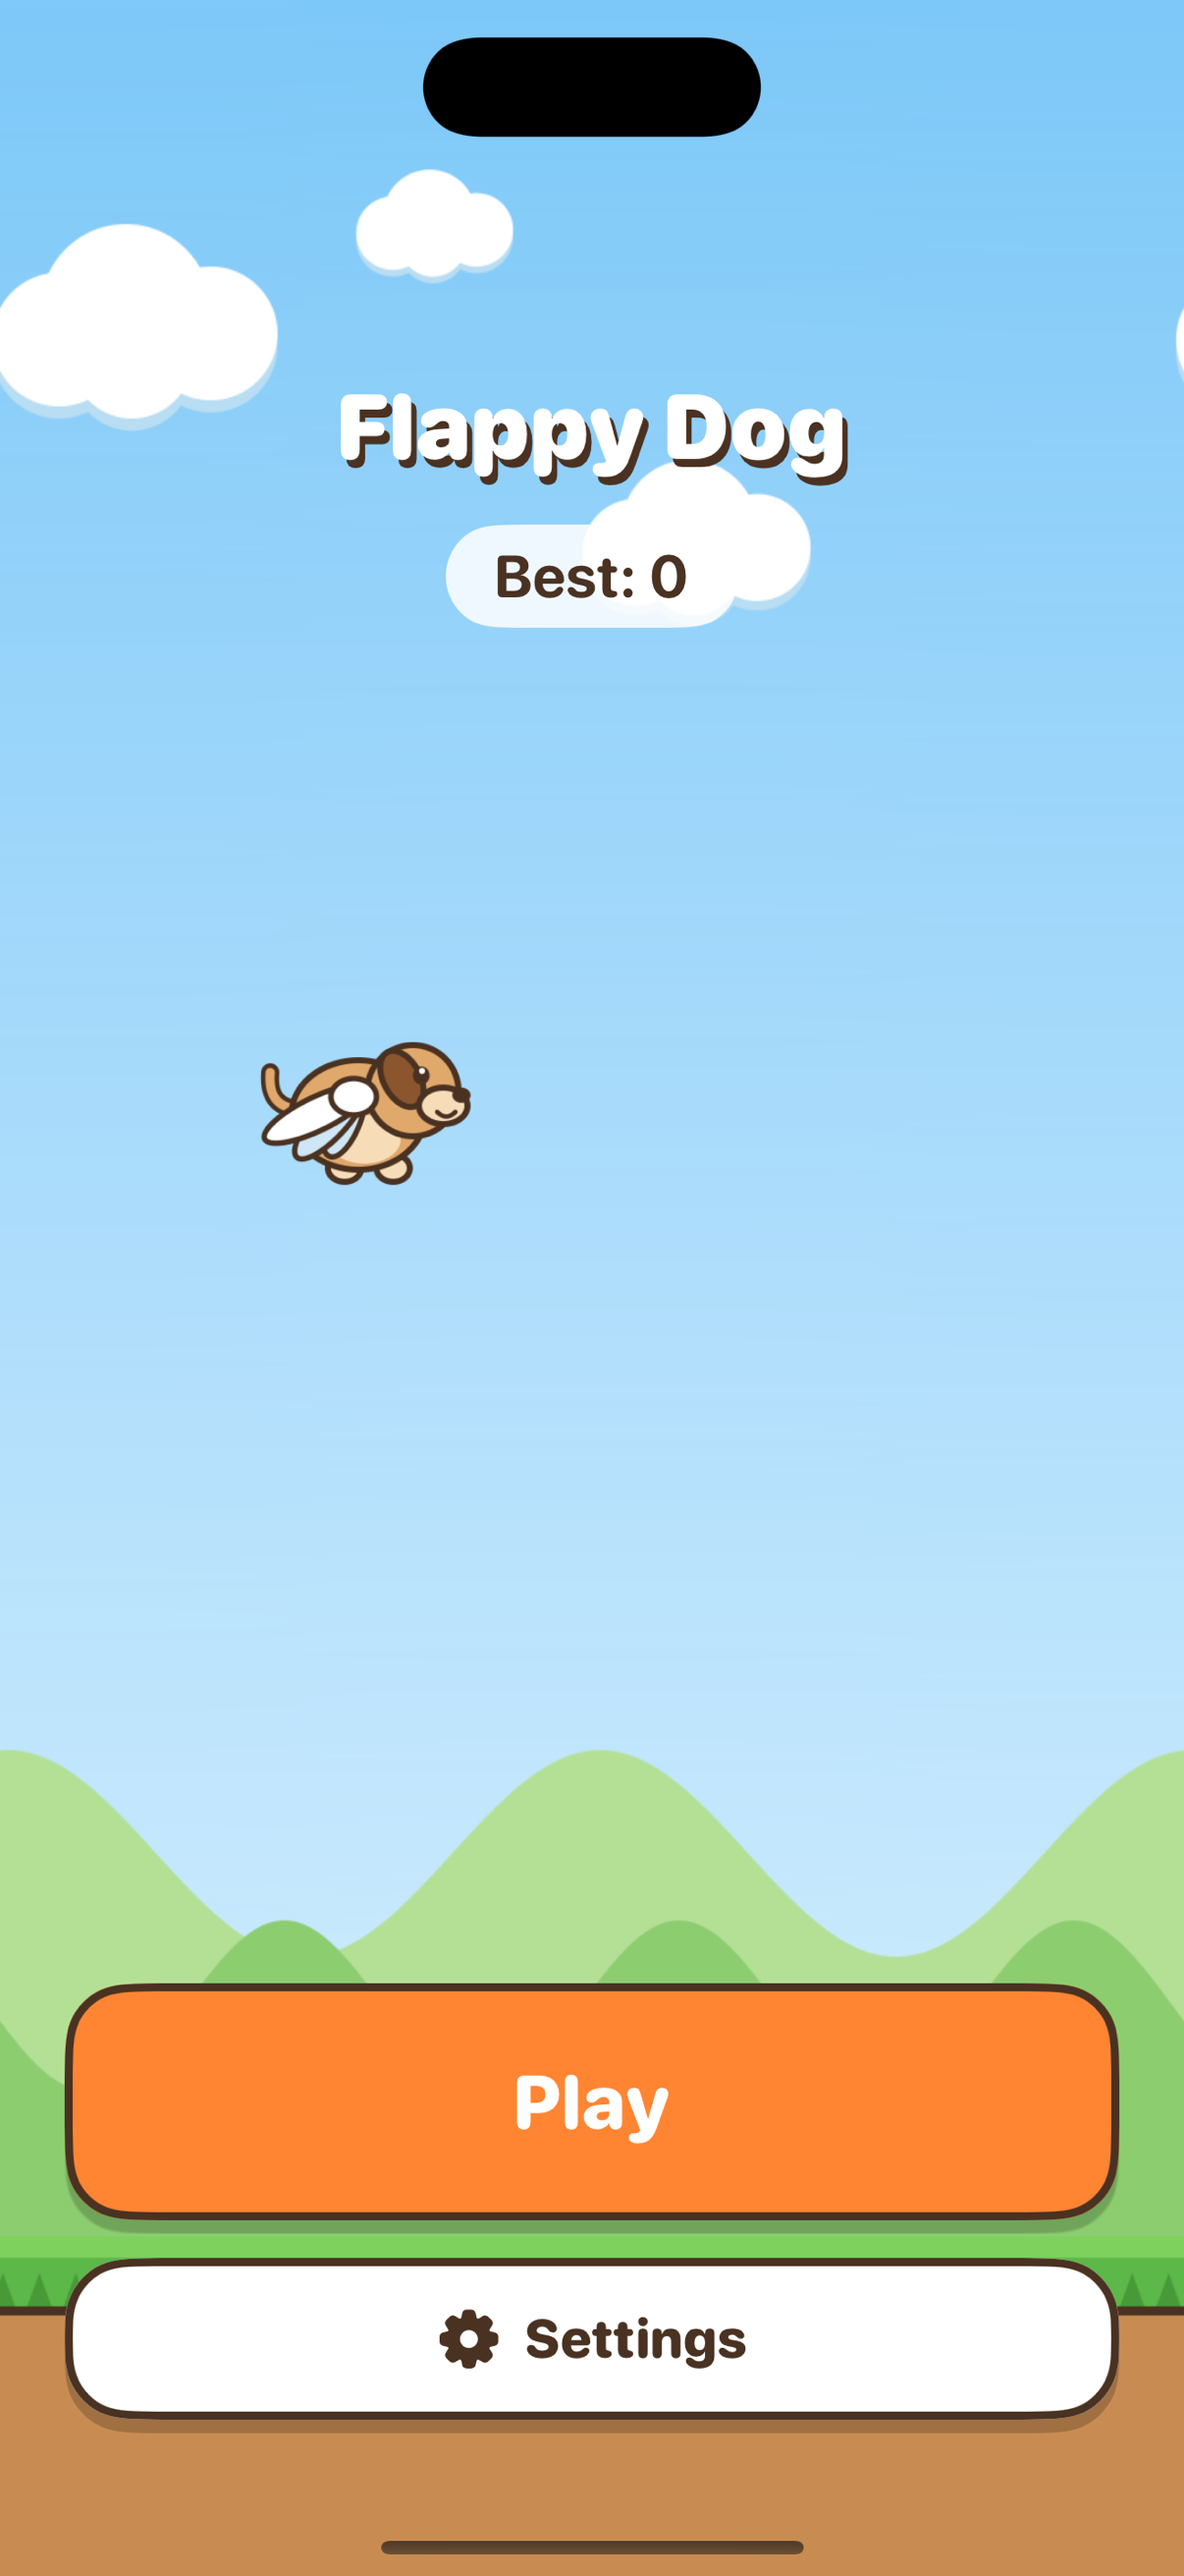
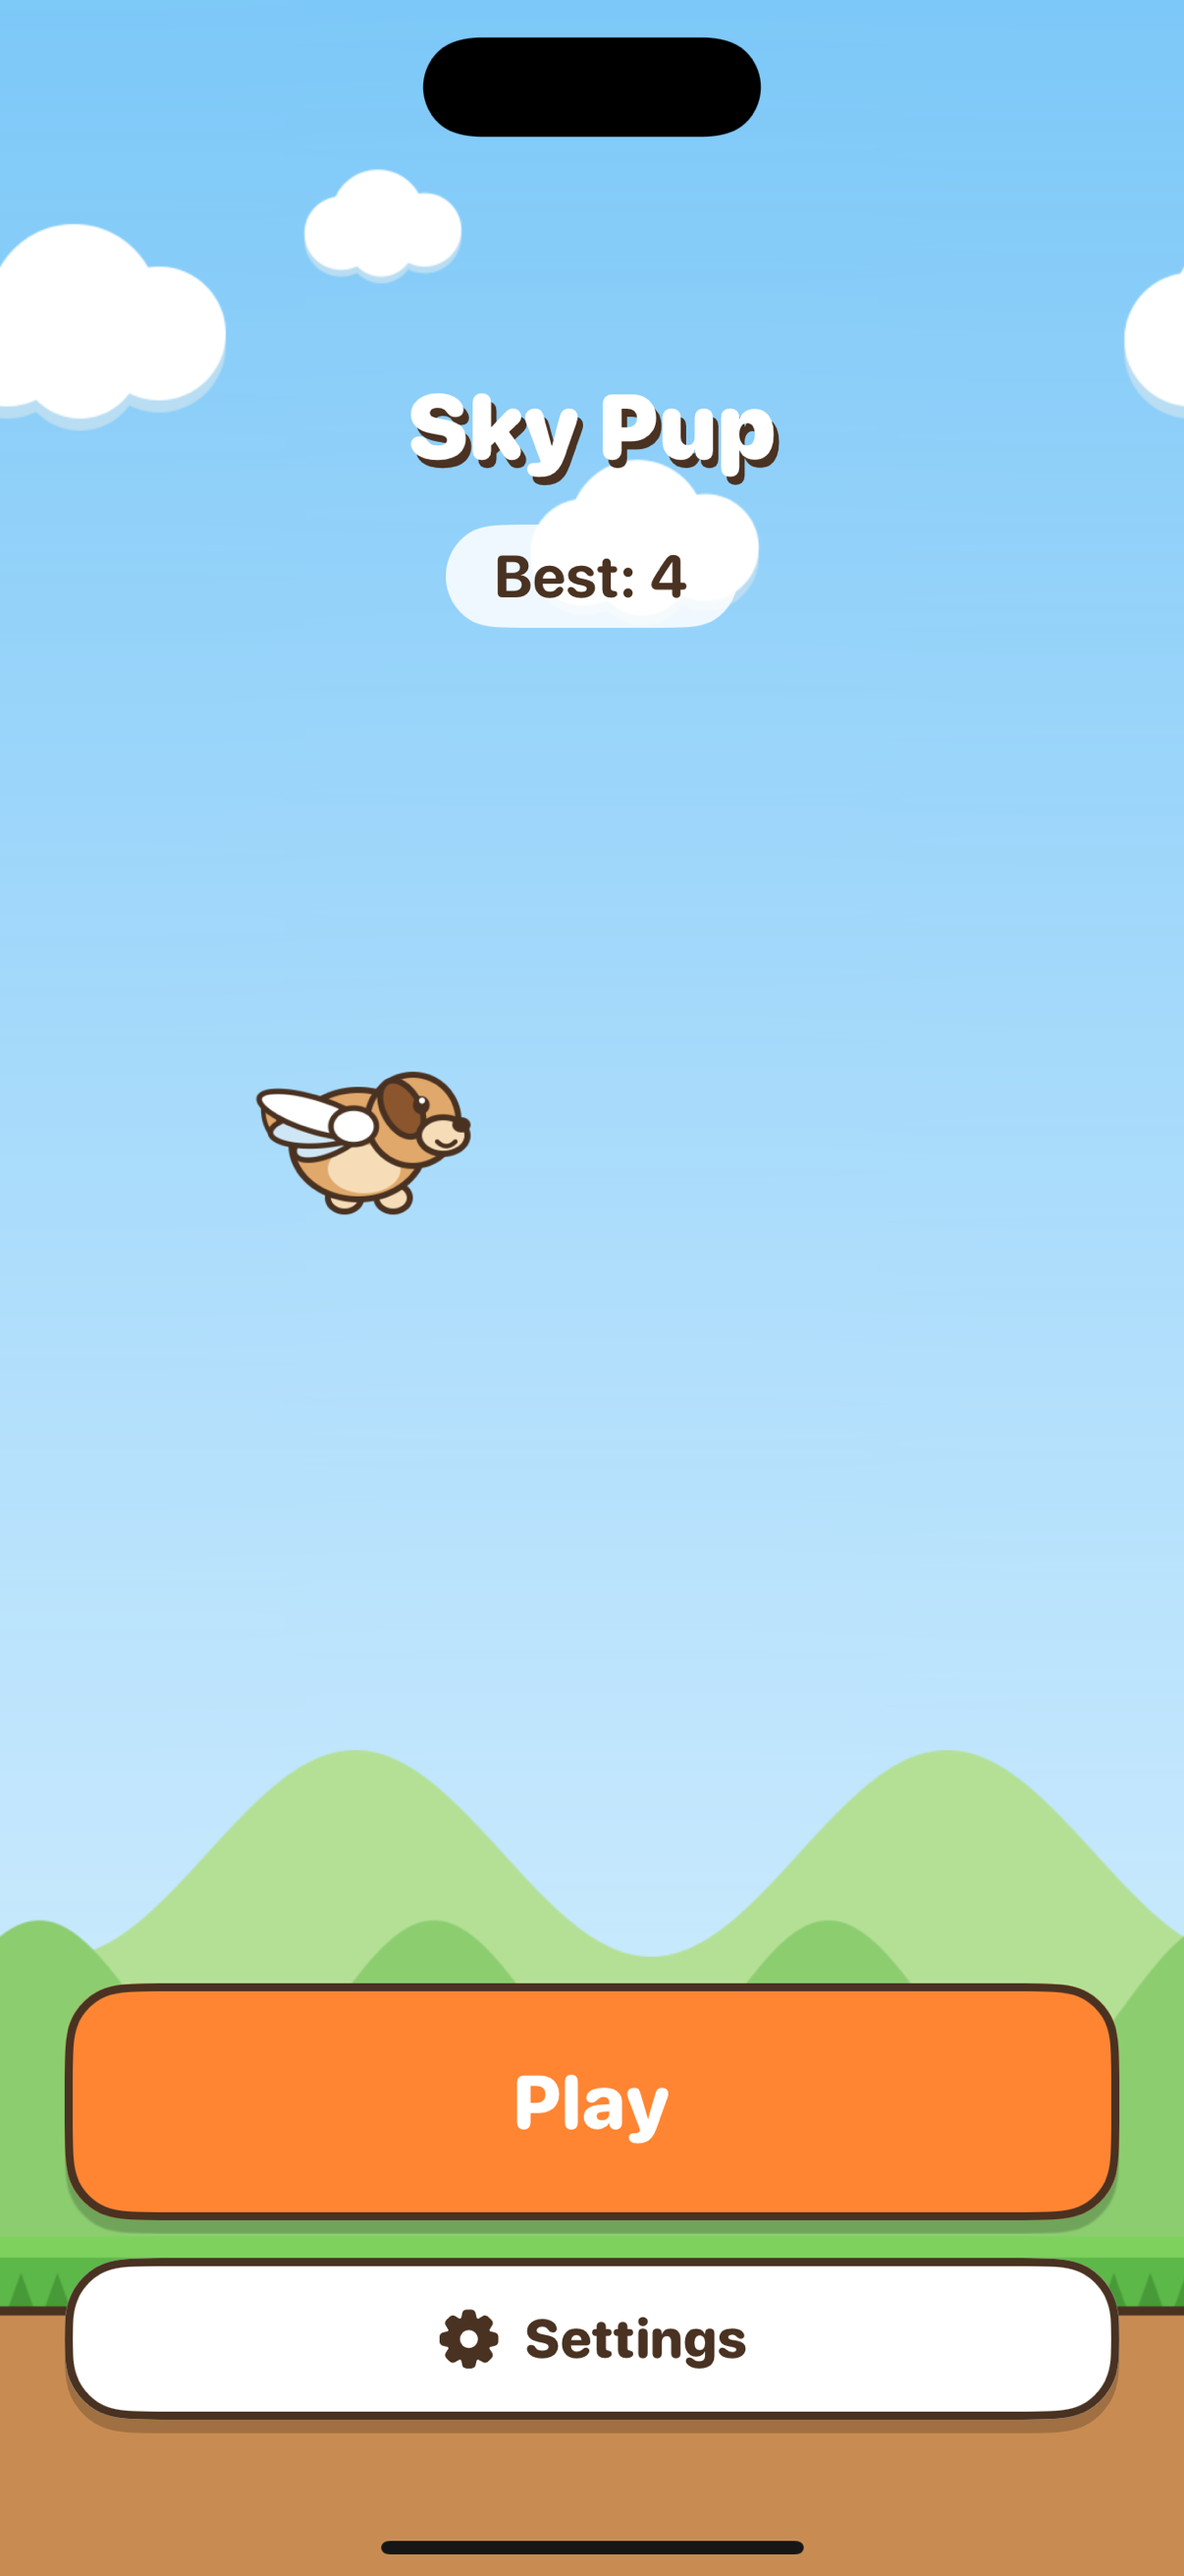
Show Sky Pup as the app name and refresh store screenshots
The published name must not contain "Flappy": the home screen name and
the title on the start screen now read "Sky Pup". The project, bundle ID
and code keep the internal name Flappy Dog. Adds 13-inch iPad screenshots
and retakes the start screen shots with the new title.

diff --git a/FlappyDog/Views/HomeView.swift b/FlappyDog/Views/HomeView.swift
@@ -7,7 +7,7 @@ struct HomeView: View {
     var body: some View {
         VStack(spacing: 16) {
             Spacer().frame(maxHeight: 60)
-            Headline(text: "Flappy Dog")
+            Headline(text: "Sky Pup")
                 .font(.system(size: 52, weight: .black, design: .rounded))
             Text("Best: \(model.best)")
                 .font(.system(.title2, design: .rounded).weight(.bold))

diff --git a/appstore/listing.md b/appstore/listing.md
@@ -4,7 +4,7 @@ Copy these fields into App Store Connect. The store name avoids "Flappy" (see PL
 
 ## Name (max 30)
 
-Sky Pup: Winged Woof
+Sky Pup
 
 ## Subtitle (max 30)
 
